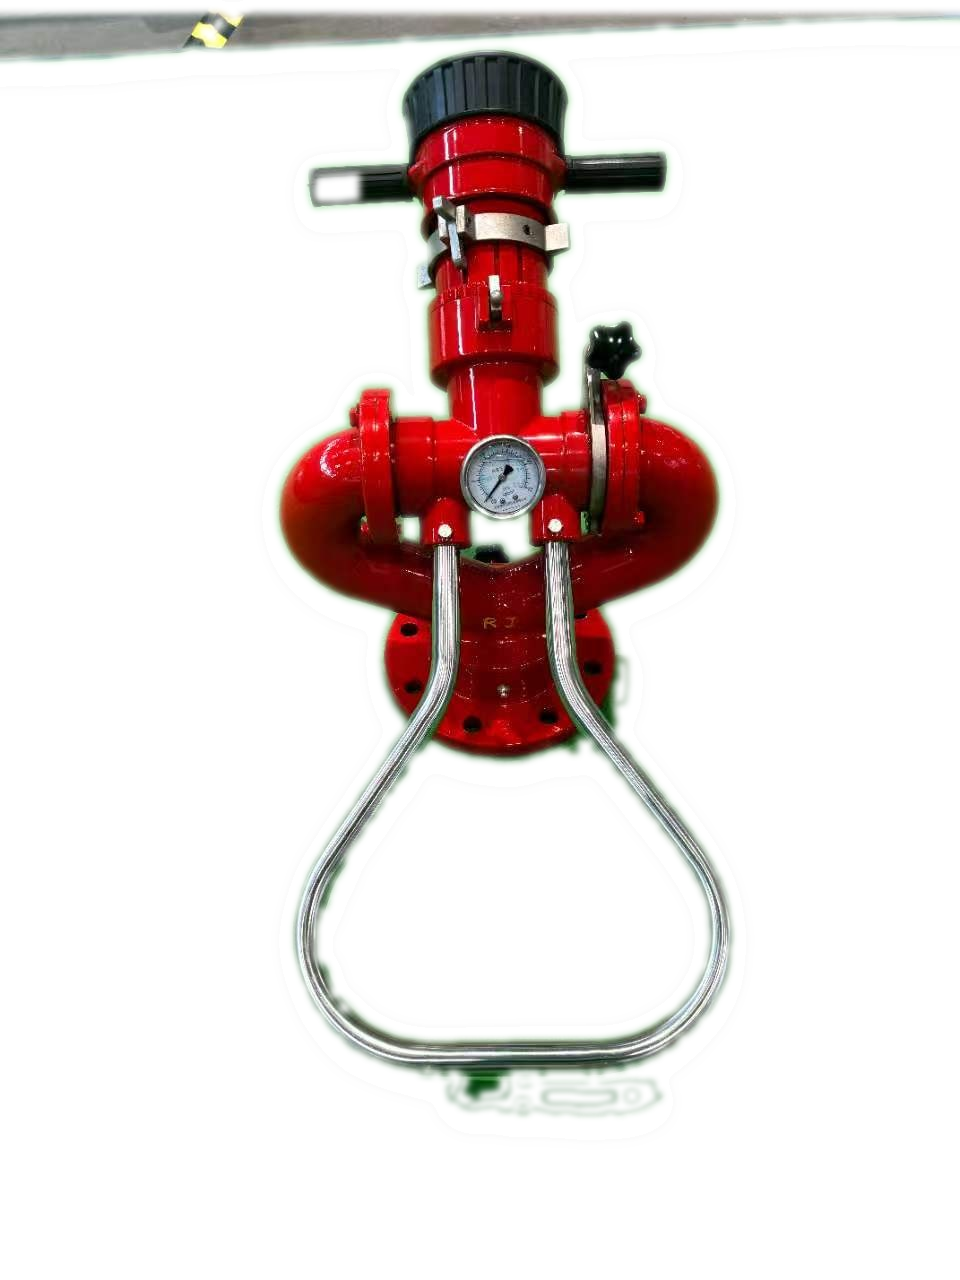
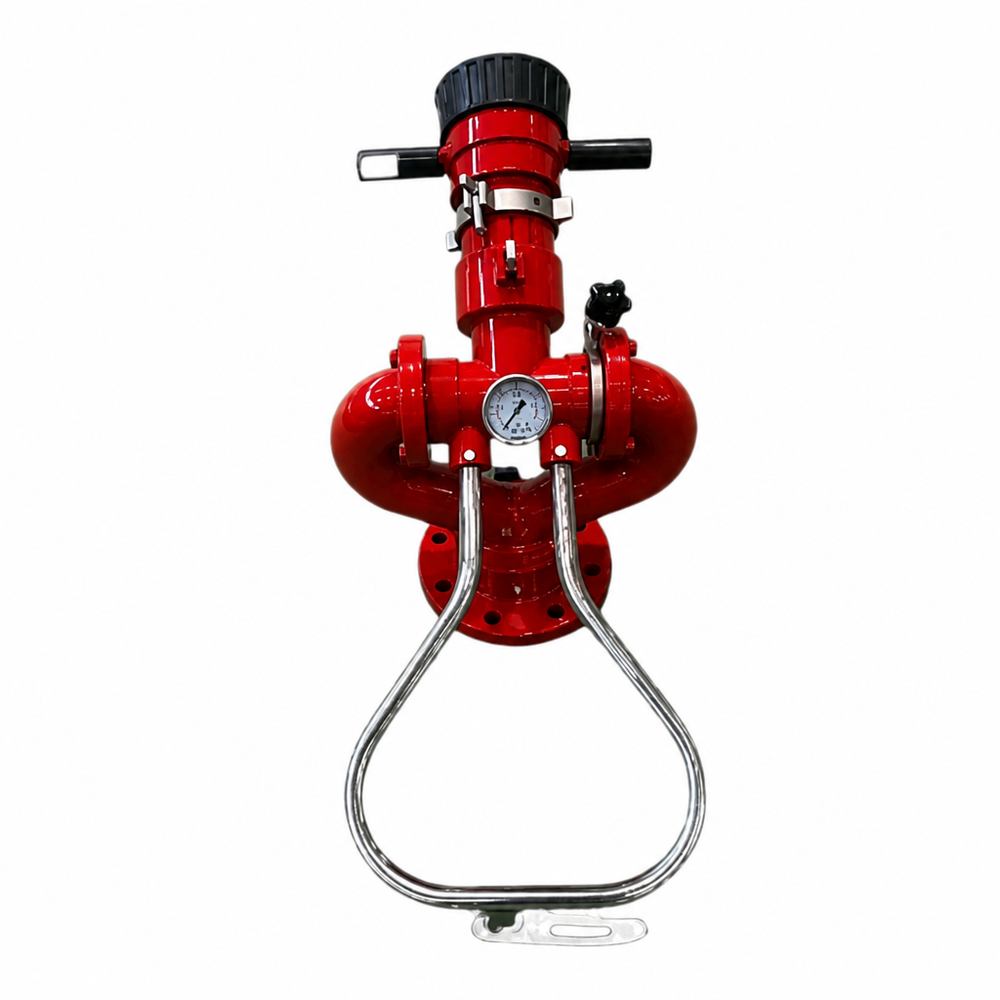
fix(images): replace 6 product main images with 1000x1000 white-background versions
- Add white-bg images for Y-strainer (SGL41H), glass bulb sprinkler (ZST),
  telescopic resilient seat gate valve (Z41X-T)
- Overwrite deluge alarm valve (ZSFM), manual water cannon (PS), concealed
  sprinkler (ZSTDY) with corrected pure-white 1000x1000 images
- Point products.ts image refs to unified /assets/products/ paths

Changed region(s): [[0.0, 0.0, 1.0, 0.961]]

diff --git a/src/utils/products.ts b/src/utils/products.ts
@@ -262,7 +262,7 @@ export const products: Product[] = [
       'Stem Seals': 'NBR / Graphite',
       'Telescopic Bolts': 'Medium Carbon Steel Zinc Plated'
     },
-    image: '/assets/products/telescopic-y-strainer-sgl41h.jpg',
+    image: '/assets/products/telescopic-y-strainer-sgl41h.png',
     seoTitle: 'SGL41H Telescopic Y Strainer | SS304 Screen | Wanlian Fluid',
     seoDescription: 'Integrated Telescopic Y Strainer SGL41H for industrial water and HVAC pipelines. Easy maintenance, solid SS304 screen. Buy directly from China factory.'
   },
@@ -349,7 +349,7 @@ export const products: Product[] = [
       'Sealing Element': 'Stainless Steel O-Ring with Teflon Layer',
       'Deflector/Splat': 'Copper Alloy / Stainless Steel'
     },
-    image: '/assets/05_sprinklers_alarms/sprinkler_p32_head_white.png',
+    image: '/assets/products/glass-bulb-fire-sprinkler-zst.png',
     seoTitle: 'ZST Glass Bulb Fire Sprinkler Head | Automatic | Wanlian Fluid',
     seoDescription: 'Glass bulb automatic fire sprinklers ZST series. High sensitivity, corrosion resistant brass frame. Factory price from Wanlian China.'
   },
@@ -607,7 +607,7 @@ export const products: Product[] = [
       'Wedge Core': 'Ductile Iron QT450 with EPDM rubber fully coated',
       'Sealing Glands': 'NBR / Brass / Stainless Steel'
     },
-    image: '/assets/02_valves_parts/valves_p4_telescopic_white.png',
+    image: '/assets/products/telescopic-resilient-seat-gate-valve-z41x-t.png',
     seoTitle: 'Z41X-T Telescopic Resilient Seat Gate Valve | Factory Price | Wanlian Fluid',
     seoDescription: 'Integrated Telescopic Resilient Seated Gate Valve. Fully EPDM encapsulated wedge, ductile iron QT450. Ideal for pipelines requiring expansion compensation.'
   },
